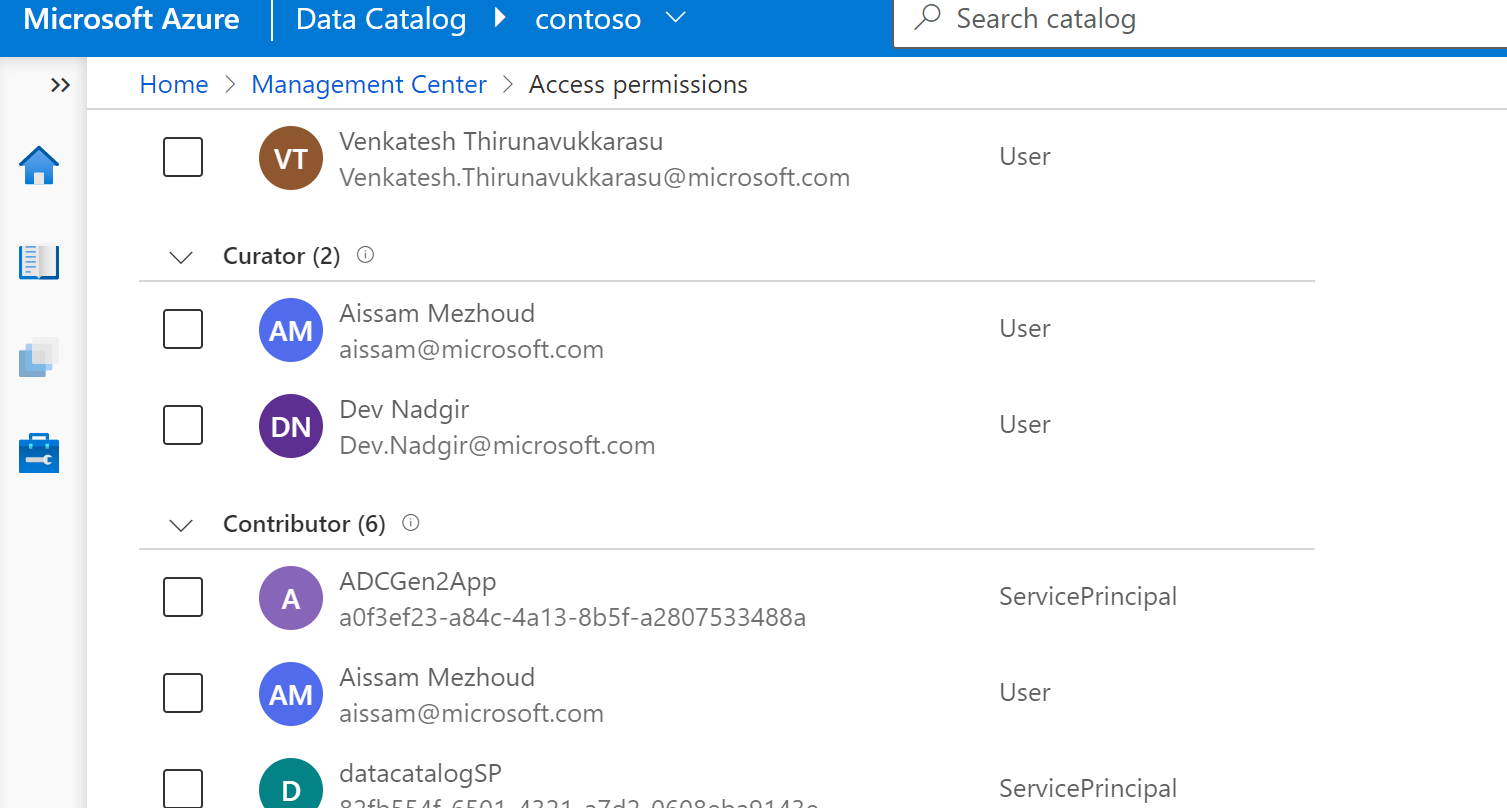
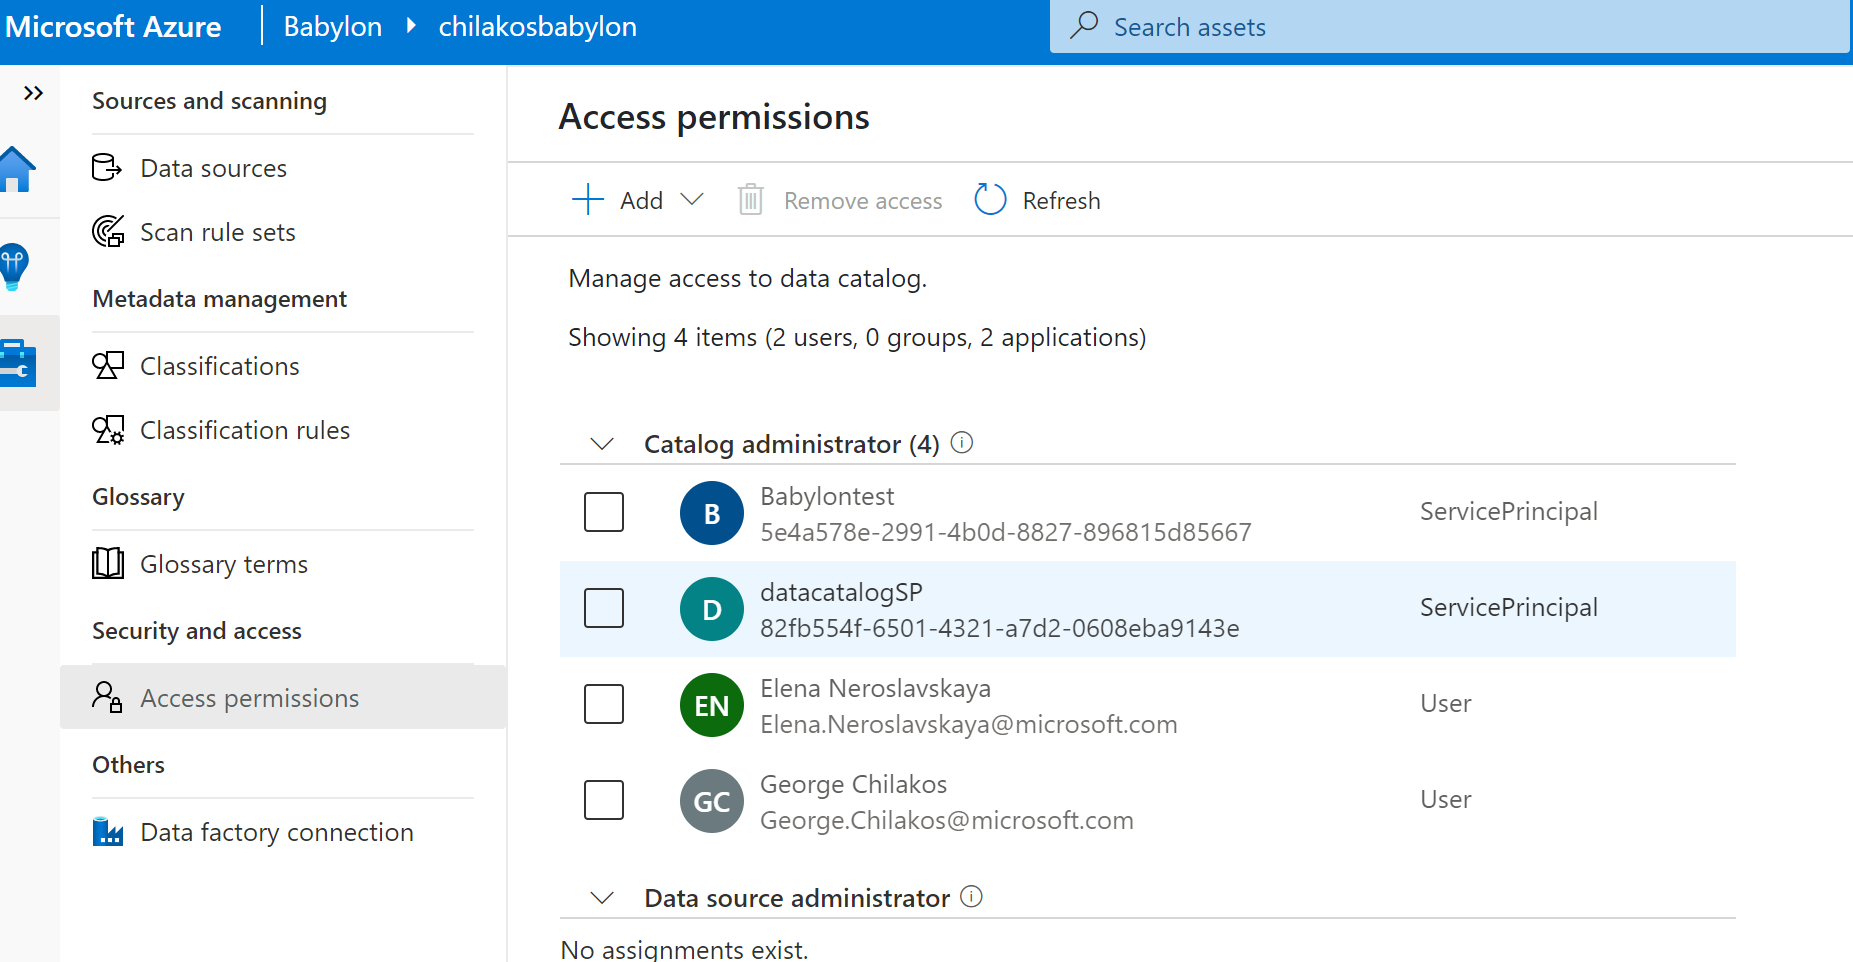
add json samples

diff --git a/catalog-results-scanner/README.md b/catalog-results-scanner/README.md
@@ -1,6 +1,6 @@
-## Detect Database Classifications using Atlas API and Azure Gen2 DataCatalog
+## Detect Database Classifications using Atlas API and Azure Babylon DataCatalog
 
-Catalog Scanner is application that queries ADC Gen2 catalog to find classified columns for the datasources with scheduled (or run manually) scans.
+Catalog Scanner is application that queries Babylon catalog using Atlas API to find classified columns for the datasources with scheduled (or run manually) scans.
 These columns could then  be reported to Log Analytics for further reporting.
 
 ## Settings
@@ -22,9 +22,8 @@ if running in K8S with AAD Pod Identity enabled
 "UseMI": "true",
 ```
 
-Add SP  or MI App Id to DataCatalog Contributors
+Add SP  or MI App Id to DataCatalog Administrators
 ![docs](./docs/sp.png)
-
 
 
 And run
@@ -95,24 +94,6 @@ NAME         SCHEDULE      SUSPEND   ACTIVE   LAST SCHEDULE   AGE
 catalogscanner   * */1 * * *   False     0        26s             6m31s
 ```
 
-## Onboard DataSource
-
-Navigate to ADC management portal `https://adc.azure.com/`  and setup new datasource pointing to Azure SQL database
-
-![docs](./docs/newds.png)
-
-Setup new scan, using DataCatalog ManagedIdentity (should be granted access to Azure SQL) or SQL authentication
-
-![docs](./docs/scan.png)
-
-setup schedule and rulest to be used by scan
-![docs](./docs/scanschedule.png)
-![docs](./docs/ruleset.png)
-
-to Find out DataCatalog MSI to add to Azure SQL Admin group, navigate in portal to DataCatalog properties
-![docs](./docs/AdcMI.png)
-
-
 
 ## Code Generation
 
@@ -121,11 +102,36 @@ Code generation from ALTLAS API Swagger package was done using autorest
 ```
 autorest --input-file=./api/data-plane/preview/datacataloggen2.json --csharp --output-folder=Csharp_DataCatalogGen2 --namespace=DataCatalogGen2 --add-credentials
 
-autorest --input-file=./scanningService.json --csharp --output-folder=Csharp_ScannerService --namespace=ScannerBabylonService --add-credential
-
 ```
 
-## Changes done in Atlas API  
+## JSON Searches examples
+This sample uses Advanced search capability of the Atlas API
+
+First by looking all tables under same AzureSQL Server that has classifications (see postman collection)
+
+```json
+{
+    "keywords": "testmetoday.database.windows.net",
+    "limit": 30,
+    "filter": {
+        "add": [
+            {
+                "typeName": "azure_sql_table",
+                "includeSubTypes": true
+            }
+        ]
+    }
+}
+```
+
+![docs](./docs/searchtables.png)
+
+In next step we iterate over columns inside each table retrieved using Entity API call with table GUID
+
+![docs](./docs/columnclass.png)
+
+
+## Changes done to generated Atlas API classes 
 
 To get some additional fields mapped to Classes from Json , we did following changes in Atlas model files
 
@@ -152,3 +158,20 @@ public JsonSearchResultValue(..., IList<string> allClassifications = default(ILi
 [JsonProperty(PropertyName = "allClassifications")]
 public IList<string> AllClassifications { get; set; }
 ```
+
+## Manual DataSource setup ( could be done using Babylon API example)
+
+Launch Babylon portal `https://https://web.babylon.azure.com/resource/<catalog>/`   and setup new datasource pointing to Azure SQL database
+
+![docs](./docs/newds.png)
+
+Setup new scan, using DataCatalog ManagedIdentity (should be granted access to Azure SQL) or SQL authentication
+
+![docs](./docs/scan.png)
+
+setup schedule and rulest to be used by scan
+![docs](./docs/scanschedule.png)
+![docs](./docs/ruleset.png)
+
+to Find out DataCatalog MSI to add to Azure SQL Admin group, navigate in portal to DataCatalog properties
+![docs](./docs/AdcMI.png)

diff --git a/catalog-scan-trigger/README.md b/catalog-scan-trigger/README.md
@@ -1,4 +1,4 @@
-## Detect Database Classifications using Atlas API and Azure Gen2 DataCatalog
+## Setup AzureDB Scanning using Babylon DataCatalog API
 
 Catalog Scan Trigger is application that sets up scanning AzureSQL datasources with scheduled (or run manually) scans.
 
@@ -32,7 +32,6 @@ if running in K8S with AAD Pod Identity enabled and remove ClientID/ClientSecret
 
 Add SP  or Managed Application Id to Catalog Administrators
 ![docs](./docs/sp.png)
-
 
 
 And run
@@ -108,8 +107,7 @@ catalogscantrigger   * */1 * * *   False     0        26s             6m31s
 
 ## Verify in Portal
 
-Launch Babylon portal `https://https://web.babylon.azure.com/resource/<catalog>/`  verify datasource pointing to Azure SQL database
-and the scans scheduled
+Launch Babylon portal `https://https://web.babylon.azure.com/resource/<catalog>/`  verify datasource pointing to Azure SQL database and the scans scheduled
 
 ![docs](./docs/scans.png)
 

diff --git a/README.md b/README.md
@@ -1,0 +1,6 @@
+## Detect Database Classifications using Atlas API and Setup Scans with Babylon API
+
+Add SP  or Managed Application Id to Catalog Administrators
+![docs](./docs/sp.png)
+
+
